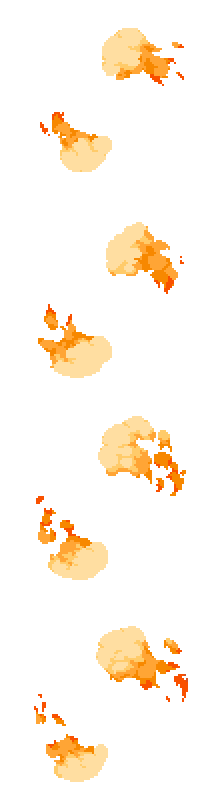
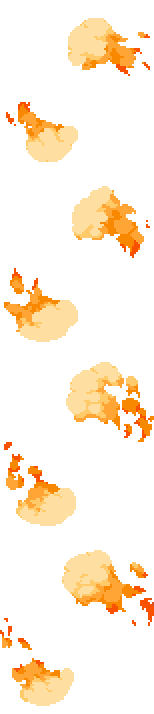
fvguhijokpl;'

diff --git a/Projectiles/Pets/LightPets/SupJewel/SupJewelSpirits.cs b/Projectiles/Pets/LightPets/SupJewel/SupJewelSpirits.cs
@@ -21,8 +21,8 @@ namespace CalValEX.Projectiles.Pets.LightPets.SupJewel
             projectile.tileCollide = false;
             projectile.ignoreWater = true;
             projectile.hostile = false;
-            projectile.width = 200;
-            projectile.height = 202;
+            projectile.width = 154;
+            projectile.height = 174;
             projectile.netImportant = true;
             projectile.scale = 1f;
         }
@@ -34,10 +34,13 @@ namespace CalValEX.Projectiles.Pets.LightPets.SupJewel
 
         public override bool PreDraw(SpriteBatch spriteBatch, Color lightColor)
         {
+            Player player = Main.player[projectile.owner];
             Lighting.AddLight(projectile.Center, new Vector3(0.541176471f, 1f, 1f));
-            Texture2D texture = Main.projectileTexture[projectile.type];
-            spriteBatch.Draw(texture, projectile.Center - Main.screenPosition, null, projectile.GetAlpha(lightColor), projectile.rotation, new Vector2(texture.Width / 2, texture.Height / 2), 1f, projectile.spriteDirection == 1 ? SpriteEffects.None : SpriteEffects.None, 0f);
-            return false;
+            Texture2D texture = ModContent.GetTexture("CalValEX/Projectiles/Pets/LightPets/SupJewel/NWings_Glow");
+            Rectangle sourceRectangle = new Rectangle(0, 0, texture.Width, texture.Height);
+            Vector2 origin = new Vector2(texture.Width, texture.Height);
+            spriteBatch.Draw(texture, player.Center - Main.screenPosition, sourceRectangle, Color.White, projectile.rotation, origin / 2f, projectile.scale, SpriteEffects.None, 0);
+            return true;
         }
 
         public override void AI()
@@ -54,11 +57,12 @@ namespace CalValEX.Projectiles.Pets.LightPets.SupJewel
             Vector2 idlePosition = player.Center;
             idlePosition.Y -= projectile.height / 2;
             idlePosition.X -= projectile.width / 2;
+
             projectile.position = idlePosition;
             projectile.spriteDirection = 1;
 
             projectile.frameCounter++;
-            if (projectile.frameCounter > 6)
+            if (projectile.frameCounter > 22)
             {
                 projectile.frame++;
                 projectile.frameCounter = 0;
